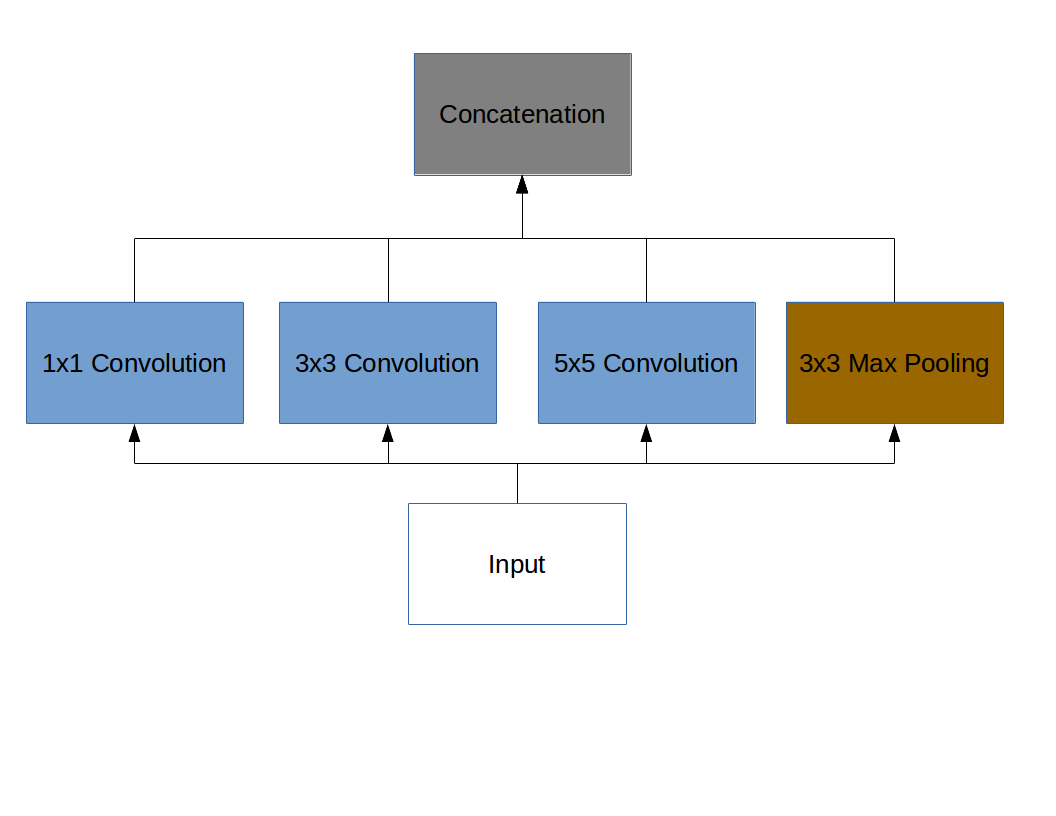
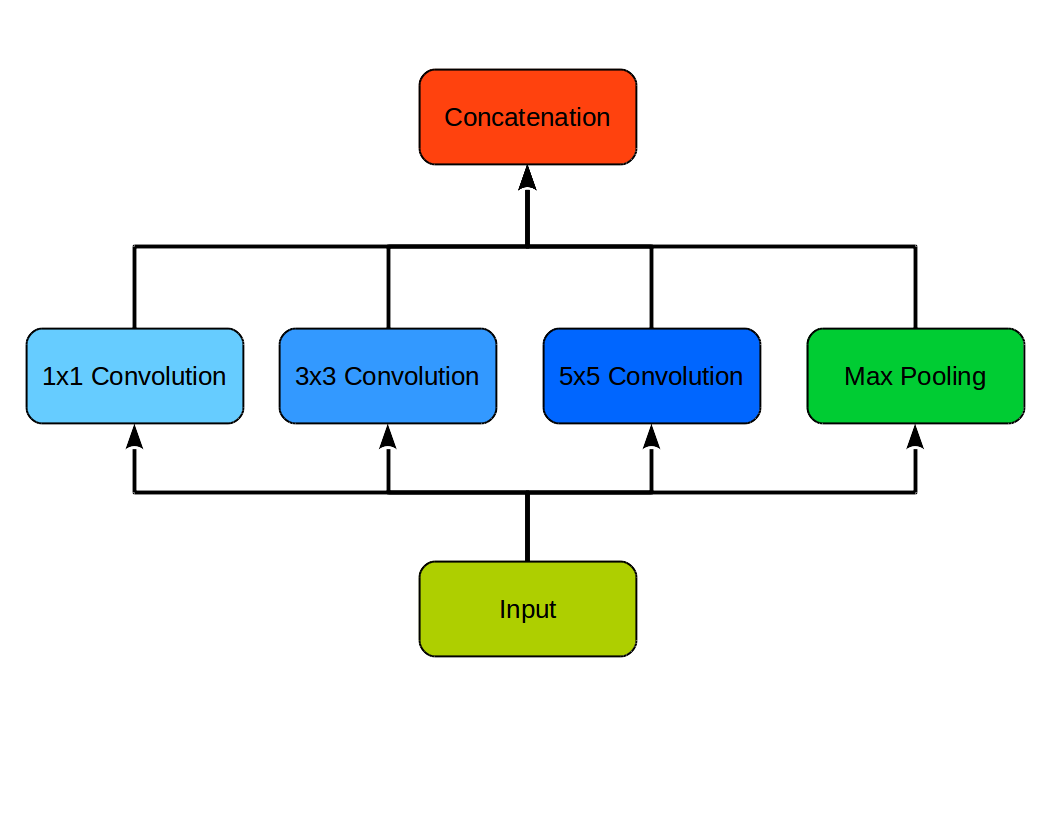
Introduction bisschen was geschrieben, Materials umstrukturiert

Changed region(s): [[0.0, 0.0613, 0.9688, 0.6434], [0.375, 0.674, 0.625, 0.8272]]

diff --git a/paper.tex b/paper.tex
@@ -140,6 +140,8 @@ qt=false%
 
 %% END COPYING HERE
 
+\usepackage{subfigure}
+
 
 \begin{document}
 
@@ -184,84 +186,48 @@ keyword1, keyword2
 %%%%%%%%%%%%%%%%%%%%%%%%%%%%%%%%%%%%%%%%%%%%%%%%%%%%%%%%%%%%%%%%%%%%%%%%%%%%%%%
 \section{Introduction}\label{sec:intro}
 %%%%%%%%%%%%%%%%%%%%%%%%%%%%%%%%%%%%%%%%%%%%%%%%%%%%%%%%%%%%%%%%%%%%%%%%%%%%%%%
+%Convolutional Neural Networks kommen nahe an menschliche Leistungen heran und der Ansatz der Faltungsnetze bewahrt die entscheidende Lokalität der Bildinformationen. Allerdings
+Das Erkennen von handschriftlichen Texten in Echtzeit ist eine Funktion, die in vielen Bereichen genutzt werden könnte. Allerdings muss man dafür eine präzise Bildanalyse durchführen, was im Allgemeinen einen hohen Rechenaufwand mit sich bringt. In den letzten Jahren hat der sehr schnelle Fortschritt in dem Bereich Machine Learning und insbesondere Neuronale Netze allerdings eine gute Lösung für diese Problematik hervorgebracht. Convolutional Neural Networks (kurz: CNN) haben großartige Ergebnisse bei allen möglichen Arten der Bildanalyse gezeigt und sind auch ausgezeichnet zum Erkennen von Buchstaben geeignet. Es werden auch immer wieder neue Verbesserungen für CNN's entwickelt, welche die Präzision der Klassifizierung und die Laufzeit stetig verbessern. Eine dieser Erweiterungen sind die so genannten Inception Module, welche im Jahr 2014 das erste mal in GoogLeNet verwendet wurden \cite{Inception_paper}.\\
+Im folgenden wird ein klassisches CNN und ein CNN mit einem Inception Modul für eine Zeichenerkennung genutzt und die Performance der Beiden Netze wird verglichen.\\
+Als zusätzliche Erschwerung enthält das Datenset auch die deutschen Umlaute \"{A} \"{O} und \"{U}, welche nur besonders schwer von den Buchstaben A O und U zu unterscheiden sind.
 
-Convolutional Neural Networks kommen nahe an menschliche Leistungen heran und der Ansatz der Faltungsnetze bewahrt die entscheidende Lokalität der Bildinformationen. Allerdings
-
-
-%\blindtext\todo{Refine me}
-
-Winery~\cite{Winery} is graphical \commentontext{modeling}{modeling with one \enquote{l}, because of AE} tool.
-
-\begin{figure}
-Simple Figure
-\caption{Simple Figure}
-\label{fig:simple}
-\end{figure}
-
-\begin{table}
-\caption{Simple Table}
-
-\label{tab:simple}
-Simple Table
-\end{table}
-
-cref Demonstration: Cref at beginning of sentence, cref in all other cases.
-
-\Cref{fig:simple} shows a simple fact, although \cref{fig:simple} could also show something else.
-
-\Cref{tab:simple} shows a simple fact, although \cref{tab:simple} could also show something else.
-
-\Cref{sec:intro} shows a simple fact, although \cref{sec:intro} could also show something else.
-
-Brackets work as designed:
-<test>
-
-The symbol for powerset is now correct: $\powerset$ and not a Weierstrass p ($\wp$).
-
-\begin{inparaenum}
-\item All these items...
-\item ...appear in one line
-\item This is enabled by the paralist package.
-\end{inparaenum}
-
-``something in quotes'' using plain tex or use \enquote{the enquote command}.
-
-You can now write words containing hyphens which are hyphenated (application"=specific) at other places.
-This is enabled by an additional configuration of the babel package.
-In case you write \enquote{application-specific}, then the word will only be hyphenated at the dash.
-You can also write applica\allowbreak{}tion-specific, but this is much more effort.
 
 \section{Materials and Methods}\label{sec:material}
-\subsubsection*{Convolutional Layers}
+
+\subsection{Klassische Convolutional Neural Networks}
+\subsubsection*{Convolutional Layers:}
 Die Neuronen im Convolutional Layer führen eine diskrete Faltung auf dem Eingabebild durch. Dafür verwenden sie eine kleine Matrix, zum Beispiel mit der Größe 5x5, mit der sie über das Bild laufen und jeweils durch das innere Produkt der Matrix die Werte berechnen. Diese Matrix wird Fitlerkernel genannt. Danach wird wie bei normalen Neuronen mithilfe einer Aktivierungsfunktion der Output des Neurons bestimmt. Der Vorteil dieser Methode ist, das durch den Filterkernel nicht nur einzelne Punkte eines Bildes betrachtet werden, sondern auch die lokale Umgebung von jedem Punkt. Dadurch können größere Features, die aus mehreren Punkten bestehen besser erkannt werden.
-\subsubsection*{Pooling Layers}
+
+\subsubsection*{Pooling Layers:}
 In CNNs fassen Pooling-Layers den Output von den vorhergehenden Neuronen entsprechend der gewählten Kernelgröße zusammen. Dabei wird bei einem 2x2 Kernel der größte Output durchgeschaltet und die anderen drei Ausgänge verworfen. Damit wird eine Reduktion der Datenmenge erreicht, die eine insgesamt schnellere Berechnung ermöglicht.
-\subsection*{Inception Layers}
-Inception Layers wurden 2014 das erste mal in GoogLeNet verwendet \cite{Inception_paper}. In einem normalen Convolutional Layer muss man sich festlegen welche Größe der Filterkernel haben soll. Verschieden Größen bringen dabei immer Vor- und Nachteile mit sich. Deshalb ist die Idee von Inception Layers diese Wahl flexibler zu machen und dem Netz zu überlassen. Um das zu ermöglichen enthält ein Inception Layer Convolution Module mit verschiedenen Kernelgrößen und auch pooling Module, die Konkateniert werden.
-In \Cref{fig:inception_naive_graph} sieht man den Naiven Aufbau eines Inception Layers, wobei alle Module direkt auf den Input angewendet und dann Konkateniert werden. Das Problem bei diesem Ansatz ist allerdings, das dieses Layer einen extrem hohen Rechenaufwand hätte. Um das ein wenig zu verringern führt man üblicherweise vor den großen Convolutions jeweils auch eine 1x1 Convolution durch. Durch die 1x1 Convolution reduziert man die Dimension des Inputs für die großen Module, was zu einer deutlich besseren Laufzeit führt. Dadurch erhält man den Aufbau, den man in \Cref{fig:inception_pro_graph} sieht.
-\begin{figure}
-	\caption{Naives Inception Layer}
-	\includegraphics[width=\textwidth]{images/inception_naive_graph.png}
-	\label{fig:inception_naive_graph}
-\end{figure}
-\begin{figure}
-	\caption{Verbessertes Inception Layer}
-	\includegraphics[width=\textwidth]{images/inception_pro_graph.png}
-	\label{fig:inception_pro_graph}
-\end{figure}
-\subsubsection*{Aufbau Klassisches CNN}
+
+\subsubsection*{Aufbau:}
 \begin{figure}
 	\caption{Main Graph of Classic CNN}
 	\includegraphics[width=\textwidth]{images/main_graph_conv.png}
 	\label{fig:main_graph}
-\end{figure}\Cref{fig:main_graph} zeigt den Aufbau des CNNs. Vor dem ersten Convolutional Layer wird das Eingabebild zu einem 28x28x1 Bild transformiert. Die erste und zweite Dimension stehen dabei für die Bildhöhe und Bildbreite. Die dritte Dimension bezeichnet die Anzahl von Farbkanälen. Da es sich um ein Graustufenbild handelt und nicht RGB wird der Wert 1 angenommen. 
+\end{figure}
+\Cref{fig:main_graph} zeigt den Aufbau des CNNs. Vor dem ersten Convolutional Layer wird das Eingabebild zu einem 28x28x1 Bild transformiert. Die erste und zweite Dimension stehen dabei für die Bildhöhe und Bildbreite. Die dritte Dimension bezeichnet die Anzahl von Farbkanälen. Da es sich um ein Graustufenbild handelt und nicht RGB wird der Wert 1 angenommen. 
 Bei der convolution werden mit einer Kernelgröße von 5x5 32 features erzeugt. Danach wird ein max-pooling mit einer Kernelgröße von 2x2 und einer Schrittweite von 2 durchgeführt. Dadurch wird die Größe des Bildes auf 14x14 reduziert. Anschließend werden die features in ein fully-connected Layer weitergeleitet. Dort werden die Daten in 1024 Nodes verarbeitet und danach an das Output layer, welches ein fully-connected Layer mit 10 Outputs ist, übergeben. Jeder Output steht dabei für einen Buchstaben.
-\subsubsection*{Aufbau CNN mit Inception Layer}
+
+\subsection{CNN mit Inception Layer}
+\subsubsection*{Inception Layers:}
+\begin{figure}
+	\caption{Aufbau eines Inception Layers}
+	\subfigure[Naiver Aufbau]{\includegraphics[width=0.49\textwidth]{images/inception_naive_graph.png}}
+	\subfigure[Verbesserter Aufbau]{\includegraphics[width=0.49\textwidth]{images/inception_pro_graph.png}}
+	\label{fig:inception_graph}
+\end{figure}
+In einem normalen Convolutional Layer muss man sich festlegen welche Größe der Filterkernel haben soll. Verschieden Größen bringen dabei immer Vor- und Nachteile mit sich. Deshalb ist die Idee von Inception Layers diese Wahl flexibler zu machen und dem Netz zu überlassen. Um das zu ermöglichen enthält ein Inception Layer Convolution Module mit verschiedenen Kernelgrößen und auch pooling Module, die Konkateniert werden.
+In \Cref{fig:inception_graph} sieht man den Aufbau eines Inception Layers. Links ist zunächst der Naive Aufbau, wobei alle Module direkt auf den Input angewendet und dann Konkateniert werden. Das Problem bei diesem Ansatz ist allerdings, das dieses Layer einen extrem hohen Rechenaufwand hätte. Um diesen ein wenig zu verringern führt man üblicherweise vor den großen Convolutions jeweils auch eine 1x1 Convolution durch. Durch die 1x1 Convolution reduziert man die Dimension des Inputs für die großen Module, was zu einer deutlich besseren Laufzeit führt. Dadurch erhält man den Aufbau, den man in dem rechtem Diagramm sieht.
+
+\subsubsection*{Aufbau:}
 \begin{figure}
 	\caption{Main Graph of Inception CNN}
 	\includegraphics[width=\textwidth]{images/main_graph_inception.png}
 	\label{fig:main_graph_inception}
-\end{figure} \Cref{fig:main_graph_inception} zeigt nun den Aufbau eines Netzes in dem das convolutional Layer und pooling Layer durch ein inception Layer ersetzt wurde. Dieses bekommt den gleichen Input wie das Convolution Layer im vorher beschriebenen Netz. Der Output des Inception Layers sind 4*32 features. Jedes der 4 Module des Inception Layers erzeugt 32 features der Größe 28x28, welche dann konkateniert werden. Diese Features werden dann wie vorher durch zwei fully-connected Layers weiter verarbeitet.
+\end{figure}
+\Cref{fig:main_graph_inception} zeigt nun den Aufbau eines Netzes in dem das convolutional Layer und pooling Layer durch ein inception Layer ersetzt wurde. Dieses bekommt den gleichen Input wie das Convolution Layer im vorher beschriebenen Netz. Der Output des Inception Layers sind 4*32 features. Jedes der 4 Module des Inception Layers erzeugt 32 features der Größe 28x28, welche dann konkateniert werden. Diese Features werden dann wie vorher durch zwei fully-connected Layers weiter verarbeitet.
 
 \section{Results}\label{sec:result}
 \section{Discussion}\label{sec:Discussion}
